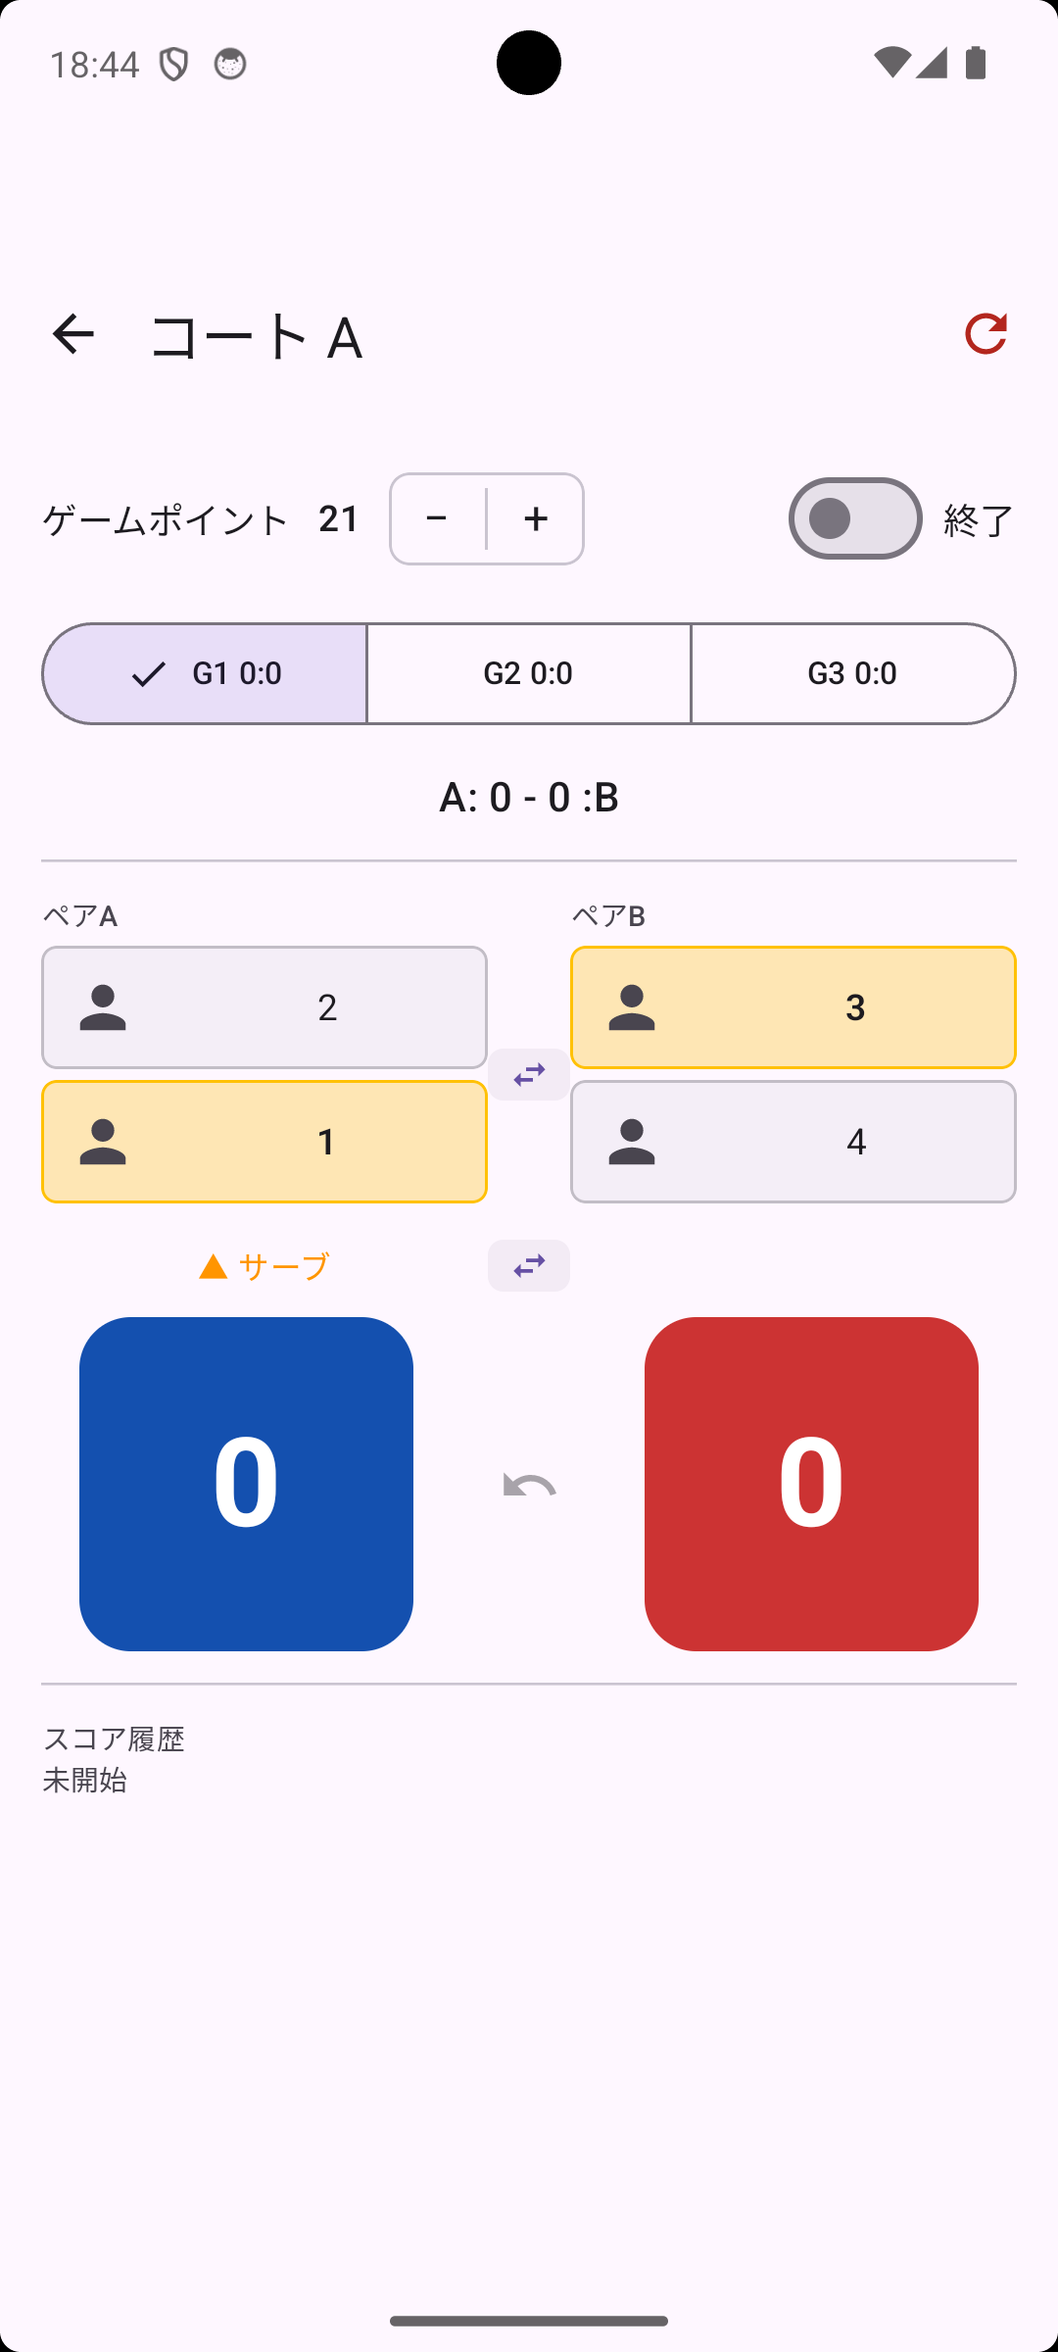
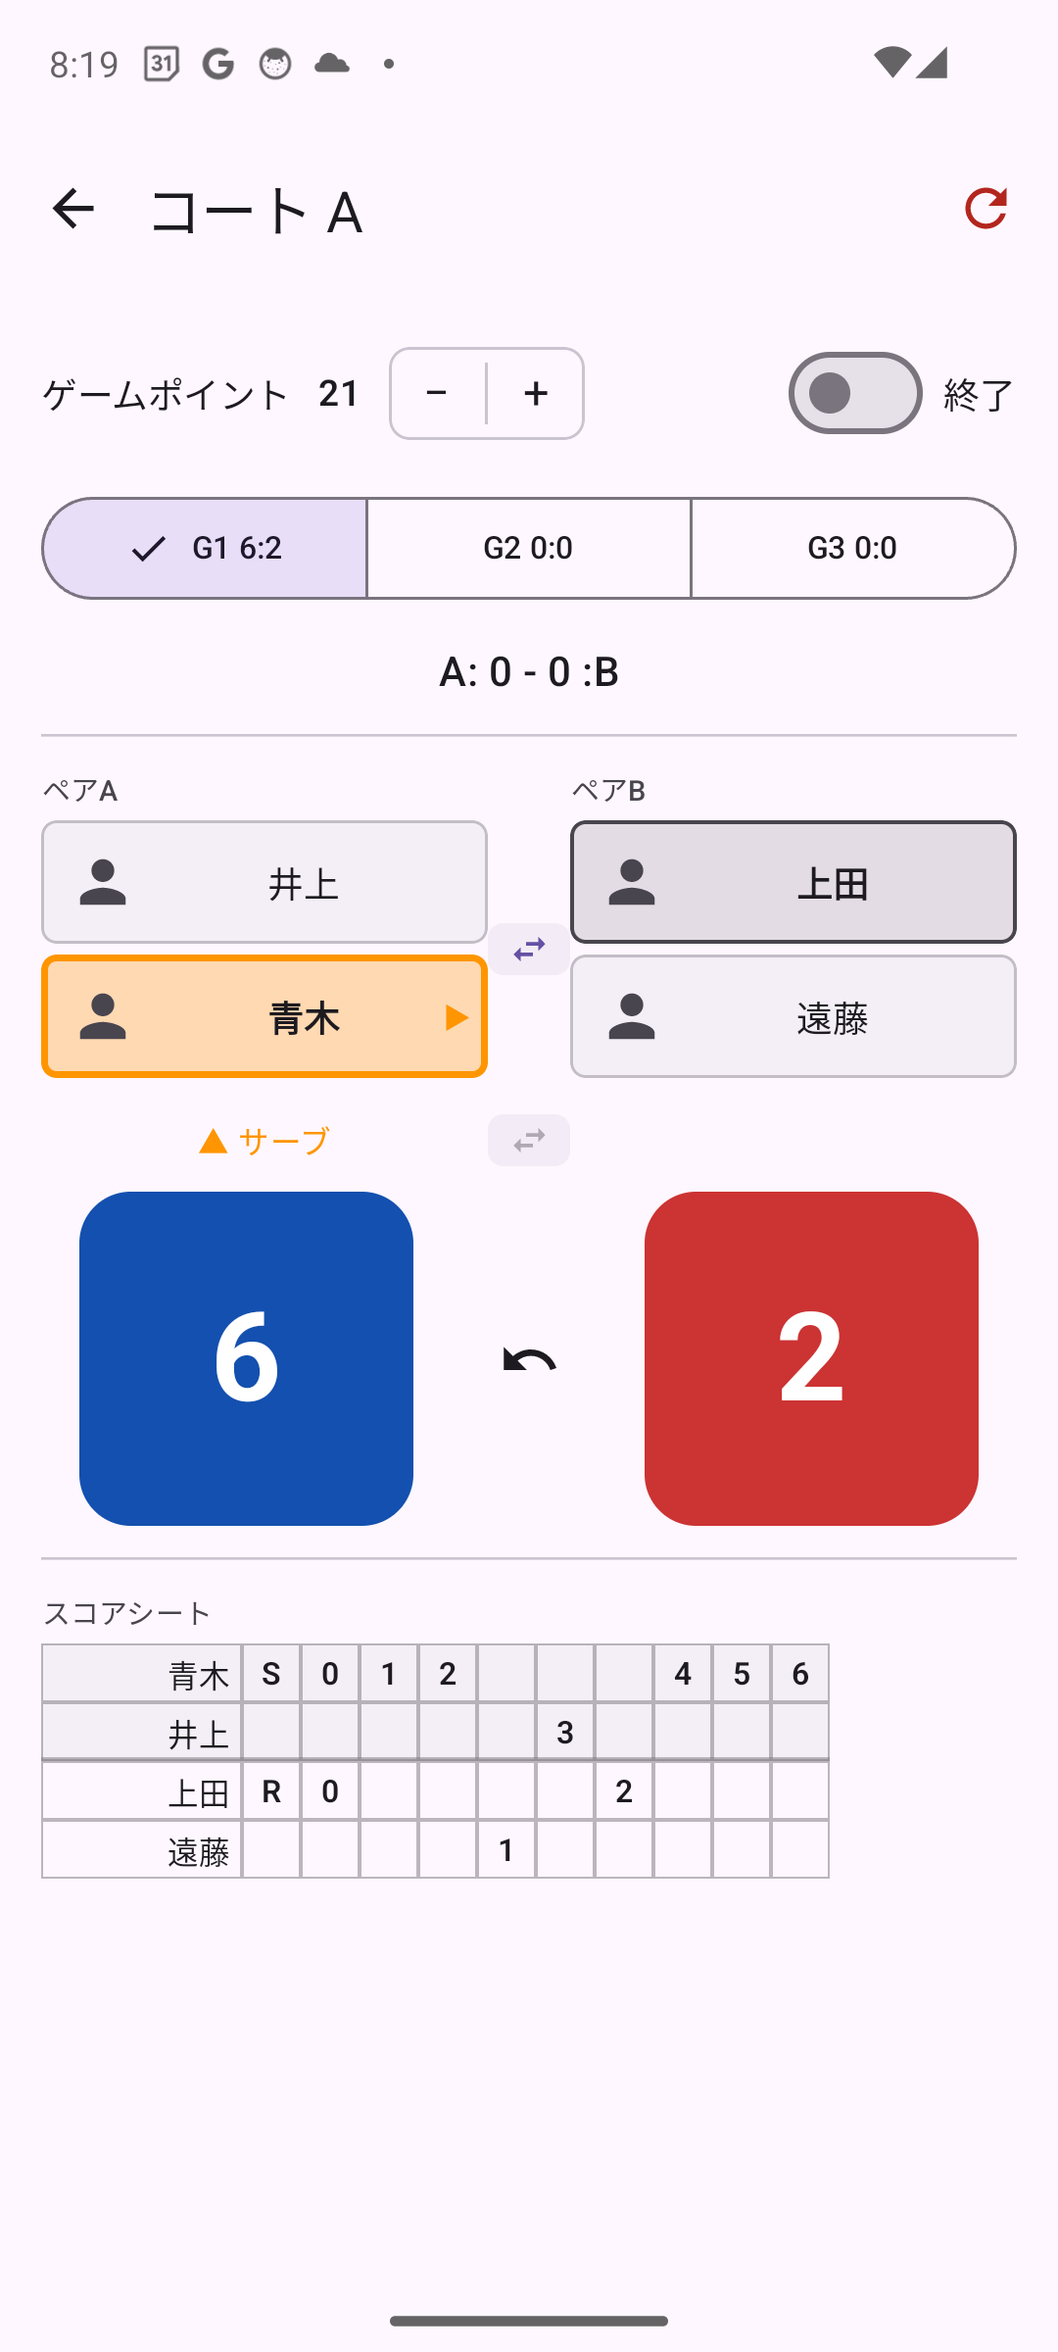
PairGen 1.2.25: 正式スコアシートと結果メールの見直しを反映
試合タブに「スコアシートを見る」の節を新設。公式スコアシートの記入法（S・R と 0、
1点1列、得点したペアのサーバーの行に記入、オレンジの縦線がインターバル）と、
名前列固定・ラリー列の横スクロールを説明した。あわせてサーブ表示の記述を
3段階（サーバー=オレンジ＋三角、レシーバー=グレー、残り2人は枠のみ）に更新し、
エンドチェンジの「スコア履歴のドットも反転」を、行がペアA・ペアBで固定される
スコアシートの説明に差し替えた。Webクライアントのスコア入力にもスコアシートを追記。

「結果をメールする」は、本文が参加者一覧＋結果サマリー、スコアシートは HTML
ファイルの添付になった旨に書き換え。本文ではなく添付にしている理由（Android では
本文を組み立てるのが送信に使うメールアプリ側で、アプリから表を本文に入れる手段が
ないこと）と、メールアプリがない場合の「結果をコピー」も追記した。

スクリーンショットは score-main.png を差し替え（S・R・0 から得点まで表全体が
収まる 6:2 の状態、日本語名・3段階ハイライト入り）、インターバルの縦線と横スクロール
を示す score-sheet-interval.png を新規追加。

ホームは v1.2.25 / 対応 iOS v1.28.0 に更新し、更新内容の冒頭に組み合わせアルゴリズムが
v1.2.21 で全面的に刷新されたことを告知する枠を追加（本番公開済みの最新が v1.2.20 の
ため、この改善は v1.2.25 の公開で初めてユーザーに届く）。更新履歴に v1.2.25 を追記。

Claude-Session: https://claude.ai/code/session_012pEfpFQbPhfUnh9NubNjHr

diff --git a/game-tab.html b/game-tab.html
@@ -40,6 +40,7 @@
   <li><a href="#reset-scores">4. 試合結果をリセットする</a></li>
   <li><a href="#score-input">5. スコア入力</a>
     <ul>
+      <li><a href="#score-sheet">スコアシートを見る</a></li>
       <li><a href="#game-point">Game Point（勝利に必要な得点）を設定する</a></li>
       <li><a href="#next-game-setup">G1・G2 終了後の自動設定</a></li>
     </ul>
@@ -114,11 +115,21 @@
 
 <h3 id="input-score">得点を入力する</h3>
 <p>青（ペアA）・赤（ペアB）の大きな正方形ボタンに、それぞれの現在の得点が数字で表示されています。このボタンをタップすると、そのペアに1点が加算されます。ボタンは画面左右の位置に固定されており、後述のエンドチェンジでペアが入れ替わると、表示される数字（担当するペア）もそれに合わせて切り替わります。</p>
-<p>得点に合わせてサーブ権が自動で切り替わり、サーブ権を持つボタンの真上に「▲ サーブ」の表示が出ます。</p>
+<p>得点に合わせてサーブ権が自動で切り替わります。いまサーブを打つプレイヤーはオレンジ色で強調され、名前の隣に相手コート側を向いた三角（▶ ／ ◀）が付きます。レシーブする側のプレイヤーはグレーの枠で示されます。サーブ権を持つボタンの真上には「▲ サーブ」の表示が出ます。</p>
 <div class="tip">💡 得点の上限は <a href="#game-point">Game Point</a> の設定によって変わります（デフォルトの Game Point 21 の場合、上限は30点）。</div>
 
 <h3 id="undo-score">得点を取り消す</h3>
 <p>中央の <code>↩</code>（元に戻す）ボタンで直前の得点を1点ずつ取り消せます。</p>
+
+<h3 id="score-sheet">スコアシートを見る</h3>
+<p>得点ボタンの下には、バドミントンの公式スコアシートと同じ書き方で試合の経過が記録されます。行は上から <strong>ペアAの2人・ペアBの2人</strong>で固定されており（エンドチェンジをしても入れ替わりません）、1列が1点です。</p>
+<ul>
+  <li>ゲーム開始時に、最初にサーブを打つ人の行に <code>S</code>、レシーブする人の行に <code>R</code> が入り、続けて両方の行に <code>0</code> が入ります</li>
+  <li>1点入るごとに列が1つ増え、<strong>得点したペアの、そのポイントの後にサーブを打つ人</strong>の行に、その時点の得点が記入されます</li>
+  <li>オレンジの縦線はインターバルの位置です（<a href="#game-point">Game Point</a> の半分＋1点。21点なら11点。ファイナルゲームではここでチェンジコートします）</li>
+</ul>
+<p>列は右へ伸びていき、常に最新の列が見えるよう自動でスクロールします。それまでの経過は横スクロールで確認できます。</p>
+<div class="ss"><img src="images/score-sheet-interval.png" alt="得点が進んだスコアシート。オレンジの縦線がインターバルの位置を示す"></div>
 
 <h3 id="switch-game">ゲームを切り替える</h3>
 <p>画面上部のタブ（<code>G1 / G2 / G3</code>）で第1ゲーム・第2ゲーム・第3ゲームを切り替えます。ここに表示されるスコアも <strong>ペアA:ペアB</strong> の順で固定表示されます。</p>
@@ -145,7 +156,7 @@
 <div class="tip">💡 次のゲームが既に開始されている場合（得点が入っている場合）は上書きされません。</div>
 
 <h3 id="end-change">エンドチェンジ</h3>
-<p>ペアA・ペアB表示の間にある <code>⇆</code> ボタンをタップすると、左右のペアが入れ替わります（エンドチェンジ）。<strong>ペアA</strong> / <strong>ペアB</strong> のラベルや得点ボタンの表示も、実際にどちらの位置にいるかに合わせて自動的に入れ替わります。スコア履歴のドットも自動で反転します。</p>
+<p>ペアA・ペアB表示の間にある <code>⇆</code> ボタンをタップすると、左右のペアが入れ替わります（エンドチェンジ）。<strong>ペアA</strong> / <strong>ペアB</strong> のラベルや得点ボタンの表示も、実際にどちらの位置にいるかに合わせて自動的に入れ替わります。なお<a href="#score-sheet">スコアシート</a>は行がペアA・ペアBで固定されているため、エンドチェンジをしても並びは変わりません。</p>
 
 <h3 id="serve">サーブ権を変更する</h3>
 <p>ゲーム開始前（まだ得点が入っていない状態）に限り、「サーブ」表示の隣にある <code>⇆</code> ボタンでサービス権チームを入れ替えられます。また、プレイヤー名をタップすると、同ペア内でサーバーとレシーバーを入れ替えられます。</p>
@@ -177,9 +188,17 @@
 <p>試合タブ左上の「⋮」→ <strong>結果をメールする</strong> をタップすると、メール送信可能なアプリの選択画面が開き、これまでの組み合わせとスコアがあらかじめ本文に入力された状態で送信できます。</p>
 <ul>
   <li>件名は「PairGen 年/月/日」の形式で自動入力されます</li>
-  <li>本文には参加者一覧と、ラウンドごとのコート組み合わせ・スコア（記録済みの場合）が含まれます</li>
+  <li>本文には<strong>参加者一覧</strong>と<strong>結果サマリー</strong>が入ります</li>
+  <li><strong>スコアシートは HTML ファイルとして添付されます</strong>（<code>pairgen-日付.html</code>）</li>
 </ul>
-<div class="tip">💡 この端末にメールアプリ（Gmail など）がインストールされていない場合は送信できません。</div>
+<p><strong>結果サマリー</strong>には、ラウンド（M1・M2…）ごとに各コートの組み合わせと勝ちゲーム数が入ります。</p>
+<ul>
+  <li><code>A(sAlice, Bob) 2 - 1 B(rCarol, Dave)</code> のように表示されます。数字は勝ちゲーム数で、常に <strong>ペアA - ペアB</strong> の順です（まだ決着していない試合や引き分けも <code>0 - 0</code> / <code>1 - 1</code> と表示されます）</li>
+  <li>名前の前の <code>s</code> は第1ゲームの最初のサーバー、<code>r</code> は最初のレシーバーを表します</li>
+</ul>
+<p><strong>添付のスコアシート</strong>をタップして開くと、終了したゲームが<a href="#score-sheet">スコア入力画面と同じ書き方</a>の表で並びます。見出しは <code>M1 Court A  G1 (21 : 18)</code> の形式で、結果サマリーと対応します。1ゲームぶんが折り返さずに横一列に並ぶので、長いゲームは横にスクロールしてご覧ください。勝ちゲーム数が <code>0 - 0</code> の試合（1ゲームも終了していない試合）は省略されます。</p>
+<div class="tip">💡 スコアシートを本文ではなく添付にしているのは Android の仕組みによるものです。メールの本文を組み立てるのは送信に使うメールアプリ側で、アプリから表（HTML）を本文に入れる手段がありません。添付にすることで、どのメールアプリから送っても受け取った側で必ず表として開けます。</div>
+<div class="tip">💡 この端末にメールを送れるアプリがない場合は、その理由をお知らせするダイアログが出ます。<code>結果をコピー</code> をタップすると、スコアシートも含めた全文がテキスト形式でクリップボードにコピーされるので、お使いのアプリに貼り付けて送れます。</div>
 
 <h3 id="server">サーバー機能（試験的）</h3>
 <p>くみあぷを入れた端末（マスター）でサーバーを起動すると、同じ Wi-Fi に接続した他の携帯・タブレットの Web ブラウザから、現在の組み合わせやプレイヤー一覧を見たり、一部の操作を行ったりできます。大会運営スタッフなど、複数人でコート状況を共有したい場合に便利です。普段のゲーム練などでもマスターの端末以外の複数端末から OS に関係なく現在の状況や進行を操作することが可能です。またゲーム練の途中からフリーモードに切り替えてコートごとにレベルを割り振って個別に進行を操作することも可能です。</p>
@@ -199,7 +218,7 @@
 <ul>
   <li>現在の組み合わせ（ラウンド／フリー両モード対応）とプレイヤー一覧の確認</li>
   <li>各コートの表示にレベルバッジを表示</li>
-  <li><strong>スコア入力</strong> — コートの組み合わせをタップするとスコア入力画面が開きます。アプリ本体と同じ構成（ペアA/ペアBラベル、勝ちゲーム数の固定表示、大きな正方形の得点ボタン）で、タップの都度サーバーへ即時反映されます。プレイヤー名タップでのサーバー/レシーバー交代（得点が入る前のみ）、undo、エンド交替・サーブ交代、セット（ゲーム）の終了設定、スコアのリセットに対応</li>
+  <li><strong>スコア入力</strong> — コートの組み合わせをタップするとスコア入力画面が開きます。アプリ本体と同じ構成（ペアA/ペアBラベル、勝ちゲーム数の固定表示、大きな得点ボタン、<a href="#score-sheet">スコアシート</a>）で、タップの都度サーバーへ即時反映されます。プレイヤー名タップでのサーバー/レシーバー交代（得点が入る前のみ）、undo、エンド交替・サーブ交代、セット（ゲーム）の終了設定、スコアのリセットに対応</li>
   <li><strong>組み合わせ生成</strong> — 次のラウンドの組み合わせを生成します</li>
   <li><strong>コートの終了／再開</strong>（フリーモード時）— コートをタップして切り替えます</li>
   <li><strong>プレイヤーの出場／休憩の切り替え</strong></li>

diff --git a/home.html b/home.html
@@ -27,7 +27,7 @@
 <body>
 
 <h1>くみあぷ（PairGen）</h1>
-<p><span class="badge">v1.2.24</span><span class="badge">対応 iOS v1.27.0</span></p>
+<p><span class="badge">v1.2.25</span><span class="badge">対応 iOS v1.28.0</span></p>
 <div class="note">⚠ This help is available in Japanese only. Please use your browser's auto-translate feature.</div>
 <p>くみあぷ（PairGen）はバドミントン・テニスなどのダブルス競技向けに、組み合わせを自動生成する Android と iOS のアプリです。参加人数とコート数を設定するだけで、重複を最小限に抑えた組み合わせをすぐに生成できます。</p>
 
@@ -117,10 +117,14 @@
   <li>試合結果メール本文は英語のみ（UI本体は多言語対応）</li>
 </ul>
 
-<h2>バージョン 1.2.24 更新内容（v1.2.23 からの変更点）</h2>
+<h2>バージョン 1.2.25 更新内容（v1.2.24 からの変更点）</h2>
+<div class="note">✨ <strong>組み合わせの作り方は v1.2.21 で全面的に生まれ変わりました。</strong>そのラウンドに出る全員をまとめて見たうえで、同じ相手と組む回数がいちばん少なくなる分け方を選びます。「特定の人といつまでも組めない」「同じ人とばかり組んでしまう」といった偏りが大幅に減り、直前のラウンドと同じペアが続けてできることもなくなりました。連続して出ている人から順に休みに回るので、出場機会も均等になります。</div>
 <ul>
-  <li>試合タブに画面を上下に分けて表示するモードを追加しました。上に最新ラウンドの組み合わせ、下にプレイヤー一覧が並ぶので、試合中にレベルや出場・休憩を変えるのにプレイヤータブへ移動する手間がなくなります。上部のボタンでいつでも従来の表示に戻せます（下側の一覧からプレイヤー編集画面は開けません）</li>
-  <li>画面いちばん上に余分な余白が入っていた表示の不具合を修正しました。一覧に表示できる行数が少し増えます</li>
+  <li>スコア入力画面の「スコア履歴」を、バドミントンの公式スコアシートと同じ形式にしました。ペアA・ペアBの4人ぶんの行に、1点ごとの得点が記入されていきます（インターバルの位置はオレンジの縦線で示します）</li>
+  <li>いまサーブを打つプレイヤーをオレンジ色で強調し、名前の隣に相手コート側を向いた三角を表示するようにしました。レシーブ側はグレーの枠で示します</li>
+  <li>サーバー機能（Web ブラウザ）のスコア画面にも同じスコアシートとサーバー表示を反映しました</li>
+  <li>「結果をメールする」を見直しました。本文は参加者一覧と結果サマリー（組み合わせと勝ちゲーム数）で、スコアシートは表のまま HTML ファイルとして添付します</li>
+  <li>メールを送れるアプリがない端末で「結果をメールする」が無反応になっていた問題を修正しました。理由をお知らせしたうえで、結果を丸ごとコピーして他のアプリに貼り付けられます</li>
 </ul>
 
 <h2>フィードバック</h2>

diff --git a/update-history.html b/update-history.html
@@ -16,6 +16,15 @@
 <p class="back-link"><a href="home.html">← ホームに戻る</a></p>
 <h1>更新履歴</h1>
 
+<h2>v1.2.25</h2>
+<ul>
+  <li>スコア入力画面の「スコア履歴」を、バドミントンの公式スコアシートと同じ形式にしました。ペアA・ペアBの4人ぶんの行に、1点ごとの得点が記入されていきます（インターバルの位置はオレンジの縦線で示します）（iOS反映）</li>
+  <li>いまサーブを打つプレイヤーをオレンジ色で強調し、名前の隣に相手コート側を向いた三角を表示するようにしました。レシーブ側はグレーの枠で示します（iOS反映）</li>
+  <li>サーバー機能（Web ブラウザ）のスコア画面にも同じスコアシートとサーバー表示を反映しました（iOS反映）</li>
+  <li>「結果をメールする」を見直しました。本文は参加者一覧と結果サマリー（組み合わせと勝ちゲーム数）で、スコアシートは表のまま HTML ファイルとして添付します（iOS反映）</li>
+  <li>メールを送れるアプリがない端末で「結果をメールする」が無反応になっていた問題を修正しました。理由をお知らせしたうえで、結果を丸ごとコピーして他のアプリに貼り付けられます（iOS反映）</li>
+</ul>
+
 <h2>v1.2.24</h2>
 <ul>
   <li>試合タブに画面を上下に分けて表示するモードを追加しました。上に最新ラウンドの組み合わせ、下にプレイヤー一覧が並ぶので、試合中にレベルや出場・休憩を変えるのにプレイヤータブへ移動する手間がなくなります。上部のボタンでいつでも従来の表示に戻せます（下側の一覧からプレイヤー編集画面は開けません）（iOS反映）</li>
